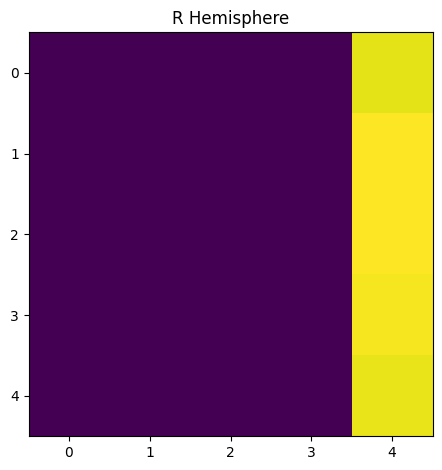
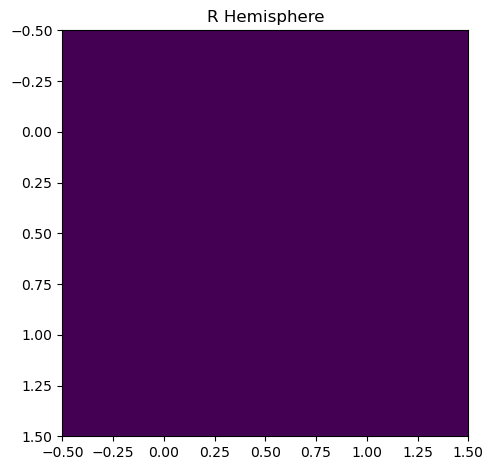
check res

diff --git a/classifier_check_res.py b/classifier_check_res.py
@@ -5,27 +5,40 @@ from statsmodels.graphics.factorplots import interaction_plot
 import numpy as np
 
 
-alpha_values = [0.2, 0.4, 0.6, 0.8, 1.0]
-l1_ratio_values = [0.2, 0.4, 0.6, 0.8, 1.0]
+# alpha_values = [0.2, 0.4, 0.6, 0.8, 1.0]
+# l1_ratio_values = [0.2, 0.4, 0.6, 0.8, 1.0]
+
+alpha_values = [0.2, 0.2]
+l1_ratio_values = [0.2, 0.2]
 
 # Selection of contrasts - based on previous analysis
-tasks_selected = ['tfMRI_WM', 'tfMRI_MOTOR', 'tfMRI_LANGUAGE', 'tfMRI_SOCIAL','tfMRI_EMOTION']
+# tasks_selected = ['tfMRI_WM', 'tfMRI_MOTOR', 'tfMRI_LANGUAGE', 'tfMRI_SOCIAL','tfMRI_EMOTION']
+tasks_selected = ['tfMRI_WM']
 
-analysis_root = '/home/chiaracaldinelli'
+analysis_root = '/Users/chiara/smartontheinside'
 
-m = np.zeros((len(tasks_selected),len(l1_ratio_values)))
+m = np.zeros(((len(alpha_values)),(len(l1_ratio_values))))
 
-for taskind, task in enumerate(tasks_selected):
-    print(task)
-
-    for hemi in ('L', 'R'):
-
-        for alphaind, alpha in enumerate(alpha_values):
-            for l1_ratioind, l1_ratio in enumerate(l1_ratio_values):
+for hemi in ('L', 'R'):
+    for alphaind, alpha in enumerate(alpha_values):
+        for l1_ratioind, l1_ratio in enumerate(l1_ratio_values):
+            for taskind, task in enumerate(tasks_selected):
+                print(task)
 
                 df = pd.read_csv(os.path.join(analysis_root, f'classifier_results_alpha-{alpha}_l1ratio-{l1_ratio}/summary_N-20.csv'), index_col=False)
                 df = df.loc[df['hemi'] == hemi]
                 # print(dfL)
+                print(df)
+                table = pd.pivot_table(df, values=['pearson', 'score'], index=['hemi', 'task'],
+                    aggfunc={'pearson': np.mean,
+                             'score': np.mean})
+                
+                file = open(('classifier_res.txt'),'a') 
+                file.write(f"\n Results for alpha = {alpha} and l1_ratio = {l1_ratio}")
+                file.write(f"\n {table}")
+                file.close()
+
+                print(table)
 
                 # plt.figure()
                 # fig,ax=plt.subplots(nrows=2, figsize=(10,8))
@@ -42,22 +55,14 @@ for taskind, task in enumerate(tasks_selected):
                 # plt.savefig((f'res_alpha_{alpha}_l1_ratio_{l1_ratio}.png'), bbox_inches='tight')
                 # print(f'Figure saved as res_alpha_{alpha}_l1_ratio_{l1_ratio}.png')
 
-            # Calculate average of the 20 folds and summarise it in a matrix
-            y = (df.loc[df['task'] == task])
-            print(y)
-            y = y.loc['score']
+                # Calculate average of the 20 folds and summarise it in a matrix
+                y = (df.loc[df['task'] == task]['score'])
+                # print(y)
+                print(f'taskind {taskind}')
+                print(f'alpha {alphaind}')
+                print(f'l1_ratio {l1_ratioind}')
+                m[alphaind,l1_ratioind] = y.mean()
             
-            print('********************')
-            print(f'taskind {taskind}')
-            print(f'alpha {alphaind}')
-            print(f'l1_ration {l1_ratioind}')
-            m[alphaind,l1_ratioind] = y
-            
-            
-            # print(mL)
-            # print(mR)
-
-            for hemi in ('L', 'R'):
                 fig, ax = plt.subplots()
                 im = ax.imshow(m)
 
@@ -77,5 +82,5 @@ for taskind, task in enumerate(tasks_selected):
 
                 ax.set_title(f"{hemi} Hemisphere")
                 fig.tight_layout()
-                plt.show()
+                # plt.show()
                 plt.savefig(f'heatmap_{hemi}', bbox_inches='tight')
